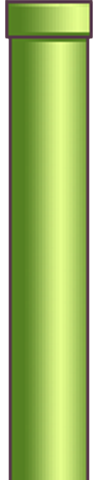
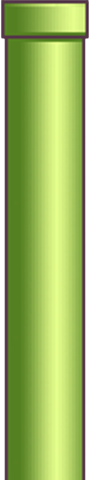
完成flappy bird

Changed region(s): [[0.8444, 0.0, 1.0, 1.0], [0.0, 0.0, 0.1333, 1.0]]

diff --git a/flappyBrid/src/gameScreen.js b/flappyBrid/src/gameScreen.js
@@ -15,6 +15,7 @@ function fRandomBy(under, over){
  * Created by DELL on 2015/10/31. 游戏场景
  */
 var GameLayer = cc.Layer.extend({
+    readyLayer : null,
     bird : null,
     ground : null,
     _animation : null,
@@ -22,17 +23,87 @@ var GameLayer = cc.Layer.extend({
     gameState : "start",
     passTime: 0,
     sorce : 0,
+    innerWidth : 0,
+    innerHeight : 0,
     ctor : function() {
         this._super();
         this.init();
     },
     init : function() {
-        this.hoseSpriteList = [];
         var _self = this;
+        this.hoseSpriteList = [];
+        this.innerWidth = cc.winSize.width;
+        this.innerHeight = cc.winSize.height;
+        this.gameState = "ready";
+
+        cc.eventManager.addListener({
+            event : cc.EventListener.MOUSE,
+            onMouseDown : function(event) {
+                event.stopPropagation();
+                if(_self.gameState === "over") {
+                    return true;                 //游戏结束
+                }
+                console.log("屏幕被点击了");
+                _self.birdRun();
+            }
+        }, this);
+
+        this.initReadyLayer();    //插入遮罩层
+        this.scheduleUpdate();       //每帧检测
+    },
+    initReadyLayer : function() {
+        var _self = this;
+        this.readyLayer = new cc.Layer();
+
+        var bg = new cc.Sprite("res/MainUi/bg.png");
+        bg.x = cc.winSize.width / 2;
+        bg.y = cc.winSize.height / 2;
+        this.readyLayer.addChild(bg);
+
+        var whiteImg = new cc.Sprite("res/readyLayer/whiteTitle.png");
+        whiteImg.x = 187.5;
+        whiteImg.y = 530.0;
+        this.readyLayer.addChild(whiteImg);
+
+        var ready = new cc.Sprite("res/readyLayer/ready.png");
+        ready.x = 187.5;
+        ready.y = 420.0;
+        this.readyLayer.addChild(ready);
+
+        var startGame = new cc.Sprite("res/readyLayer/startGame.png");
+        startGame.x = 187.5;
+        startGame.y = 270;
+        this.readyLayer.addChild(startGame);
+
+        var ground = new cc.Sprite("res/MainUi/ground.png");
+        var action1 = cc.moveBy(1, cc.p(-(ground.width - cc.winSize.width), 0)),
+            action2 = cc.moveBy(0, cc.p(ground.width - cc.winSize.width, 0)),
+            sequence = cc.sequence(action1, action2);
+        ground.runAction(cc.repeatForever(sequence));
+        ground.x = 281.25;
+        ground.y = 62.50;
+        this.readyLayer.addChild(ground);
+
+        this.addChild(this.readyLayer);
+
+        cc.eventManager.addListener({
+            event : cc.EventListener.MOUSE,
+            onMouseDown : function(event) {
+               // event.stopPropagation();
+                if(_self.gameState === "ready") {
+                    _self.gameState = "start";     //游戏开始
+                    _self.readyLayer.setVisible(false);   //隐藏该层
+                    _self.initBackground();        //启动后序渲染
+                }
+            }
+        }, this.readyLayer)
+    },
+    initBackground : function() {
         var bg = new cc.Sprite("res/MainUi/bg.png");
         bg.x = cc.winSize.width / 2;
         bg.y = cc.winSize.height / 2;
         this.addChild(bg, 1);
+
         var ground = new cc.Sprite("res/MainUi/ground.png");
         var action1 = cc.moveBy(1, cc.p(-(ground.width - cc.winSize.width), 0)),
             action2 = cc.moveBy(0, cc.p(ground.width - cc.winSize.width, 0)),
@@ -49,17 +120,7 @@ var GameLayer = cc.Layer.extend({
         this.bird.y = cc.winSize.height / 2;
 
         this.addChild(this.bird, 4);
-        cc.eventManager.addListener({
-            event : cc.EventListener.MOUSE,
-            onMouseDown : function(event) {
-                if(this.gameState === "end") {
-                    return true;                 //游戏结束
-                }
-                console.log("屏幕被点击了");
-                _self.birdRun();
-            }
-        }, this);
-        this.scheduleUpdate();       //每帧检测
+        this.birdRun();    //第一次初始画的时候触发
     },
     birdRun : function() {
         var birdX = this.bird.x,
@@ -94,9 +155,9 @@ var GameLayer = cc.Layer.extend({
     addHose : function() {
         var groundHeight = 125;       //地砖高度
         var hoseImageHeight = 480;    //水管图片的长度
-        var hoseWidth = 100;    //水管宽度
+        var hoseWidth = 90;    //水管宽度
         var hoseHeight = 238;   //水管长度
-        var acrossHeight = 120; //穿过通道长度
+        var acrossHeight = 150; //穿过通道长度
         var downHeight = fRandomBy(50, hoseHeight);
         var topHeight = cc.winSize.height - acrossHeight - downHeight - groundHeight;     //上水管高度
 
@@ -114,7 +175,6 @@ var GameLayer = cc.Layer.extend({
         this.hoseSpriteList.push(bottomHose);    //添加水管
     },
     update : function() {
-        //console.log("开始每帧检测");
         var temp = [];
         if(this.gameState !== "start") {
             return;
@@ -122,8 +182,9 @@ var GameLayer = cc.Layer.extend({
         for(var i = 0, len = this.hoseSpriteList.length; i < len; i++) {
             var pipe = this.hoseSpriteList[i];   //取水管
             pipe.setPositionX(pipe.getPositionX() - 3);      //返回在cocos2d坐标系中的位置X
-            if(pipe.getPositionX() < 100) {
-                this.sorce++;                    //分数+1
+            if(pipe.getPositionX() < 100 && pipe.sorceflag === undefined) {
+                pipe.sorceflag = true;
+                this.sorce += 0.5;                    //分数+0.5(两根水管一分，标志位标记水管不能被重复计算)
             }
             if (pipe.getPositionX() < -50) {     //getContenSize返回为变换之前的大小（如果水管超出场景）
                 this.removeChild(pipe);          //删除页面外的精灵
@@ -142,31 +203,90 @@ var GameLayer = cc.Layer.extend({
         this.checkCollision();
     },
     collide : function(eleA, eleB) {
-        var boxA = eleA.getBoundingBox(),    //获取包含该图形的矩形框
-            bottom = cc.p(boxA.x + boxA.width / 2, boxA.y),
-            right = cc.p(boxA.x + boxA.width, boxA.y + boxA.height / 2),
-            left = cc.p(boxA.x, boxA.y + boxA.height / 2),
-            top = cc.p(boxA.x + boxA.width / 2, boxA.y + boxA.height);
-        var boxB = eleB.getBoundingBox();
-        return cc.rectContainsPoint(boxB, left) || cc.rectContainsPoint(boxB, right) || cc.rectContainsPoint(boxB, top) || cc.rectContainsPoint(boxB, bottom);
+        var boxA = eleA.getBoundingBox(),
+            boxB = eleB.getBoundingBox();
+        return cc.rectIntersectsRect(boxA, boxB);
     },    //碰撞检测函数
     checkCollision : function() {
         if(this.collide(this.bird, this.ground)) {
             console.log("碰撞");
+            this.fallAction();
         }
         for(var i = 0, len = this.hoseSpriteList.length; i < len; i++) {
             var pipe = this.hoseSpriteList[i];
             if(this.collide(this.bird, pipe)) {
                 console.log("水管碰撞");
+                this.fallAction();
                 break;
             }
         }
     },
-    birdFallAction : function() {
+    fallAction : function() {
+        var _self = this;
         this.gameState = "over";
         this.bird.stopAllActions();
         this.ground.stopAllActions();
-        var birdX = this.bird.getPositionX();
-        var birdY = this.bird.getPositionY();
+        var birdX = this.bird.getPositionX(),
+            birdY = this.bird.getPositionY(),
+            duration = birdY / 600;;
+        var fallAction1 = cc.moveTo(duration, cc.p(birdX, 142.5)).easing(cc.easeIn(2)),
+            fallAction2 = cc.rotateTo(0.2, 90),
+            fallAction = cc.spawn(fallAction1, fallAction2);  //小鸟旋转90落地, 延时
+        this.bird.runAction(cc.sequence(cc.delayTime(0.1), fallAction));
+        this.scheduleOnce(this.showGameOver, 1);     //延迟1秒执行
+    },
+    showGameOver : function() {
+        var _self = this;
+        console.log("最终得分：" + this.sorce);
+        var gameOver = new cc.Layer();
+
+        var bg = new cc.Sprite("res/MainUi/bg.png");
+        bg.x = cc.winSize.width / 2;
+        bg.y = cc.winSize.height / 2;
+        gameOver.addChild(bg);
+
+        var ground = new cc.Sprite("res/MainUi/ground.png");
+        ground.x = 281.25;
+        ground.y = 62.50;
+        gameOver.addChild(ground);
+
+        var gameover = new cc.Sprite("res/readyLayer/gameover.png");
+        gameover.x = 187.5;
+        gameover.y = 520.0;
+        gameOver.addChild(gameover);
+
+        var sorceCount = new cc.Sprite("res/readyLayer/sorceCount.png");
+        sorceCount.x = 187.5;
+        sorceCount.y = 364;
+        gameOver.addChild(sorceCount);
+
+        var restart = new cc.Sprite("res/readyLayer/restart.png");
+        restart.x = 100;
+        restart.y = 220;
+        gameOver.addChild(restart);
+
+        var share = new cc.Sprite("res/readyLayer/share.png");
+        share.x = 270;
+        share.y = 220;
+        gameOver.addChild(share);
+
+        var sorceText = new cc.LabelTTF(this.sorce, "georgia", 25);
+            sorceText.color = cc.color(2, 77, 140);
+        sorceText.x = 274.86;
+        sorceText.y = 384.86;
+        gameOver.addChild(sorceText);
+        console.log(gameOver);
+        this.addChild(gameOver, 7);
+        cc.eventManager.addListener({
+            event : cc.EventListener.MOUSE,
+            onMouseDown : function() {
+                _self.restartGame();
+            }
+        }, restart);
+    },
+    restartGame : function() {
+        var scene = new cc.Scene();
+        scene.addChild(new GameLayer());
+        cc.director.runScene(scene);
     }
 })

diff --git a/flappyBrid/src/resource.js b/flappyBrid/src/resource.js
@@ -11,7 +11,14 @@ var g_resources = [
     "res/bird.png",
     "res/bird.plist",
     "res/hoseTop.png",
-    "res/hoseBottom.png"
+    "res/hoseBottom.png",
+    "res/readyLayer/ready.png",
+    "res/readyLayer/startGame.png",
+    "res/whiteTitle.png",
+    "res/readyLayer/share.png",
+    "res/readyLayer/sorceCount.png",
+    "res/readyLayer/restart.png",
+    "res/readyLayer/gameover.png"
 ];
 for (var i in res) {
     g_resources.push(res[i]);
